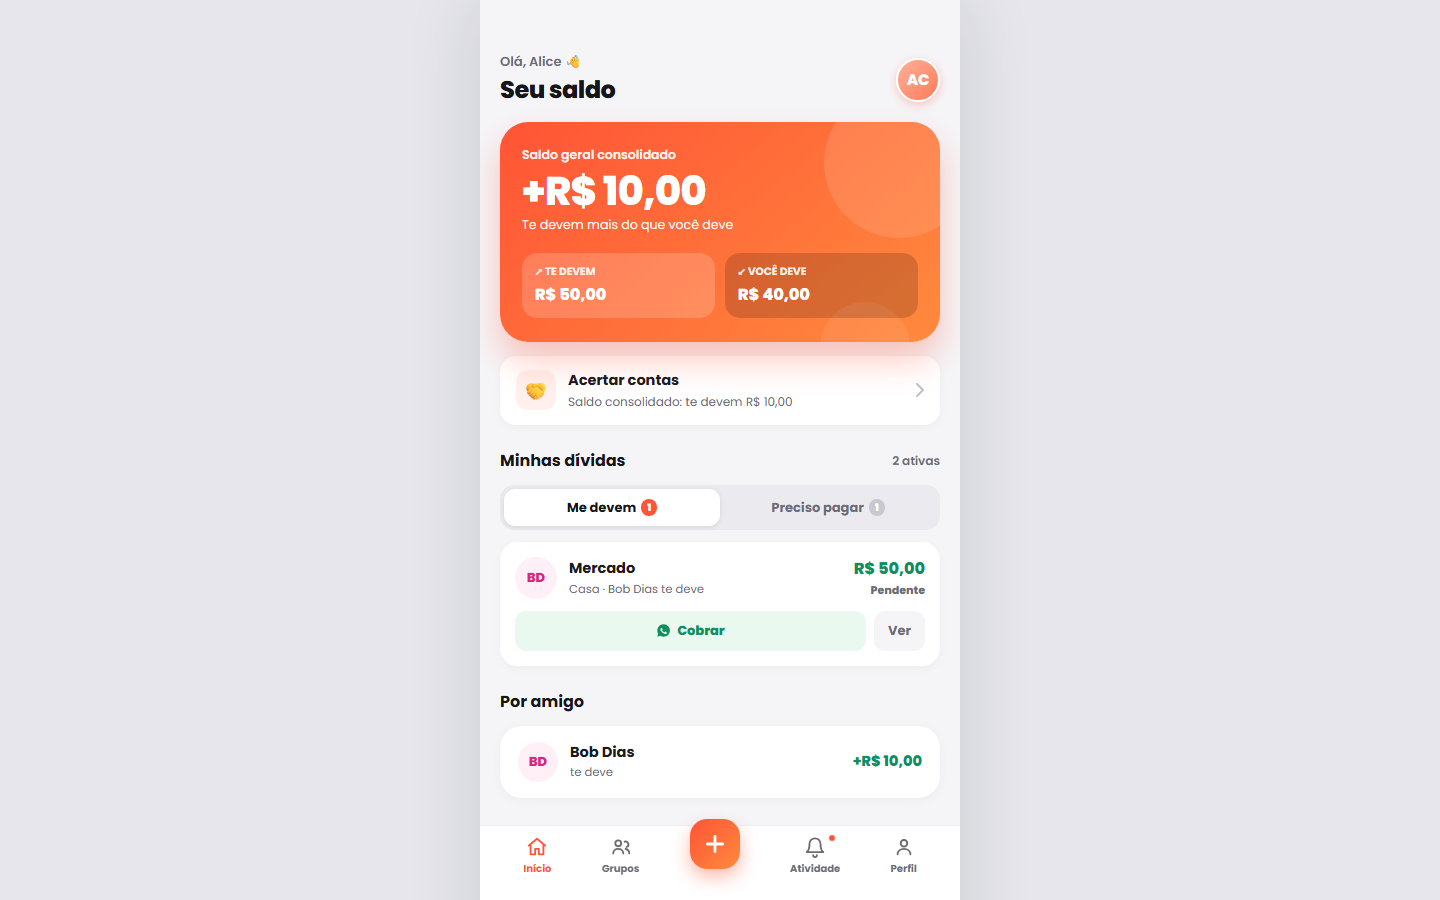
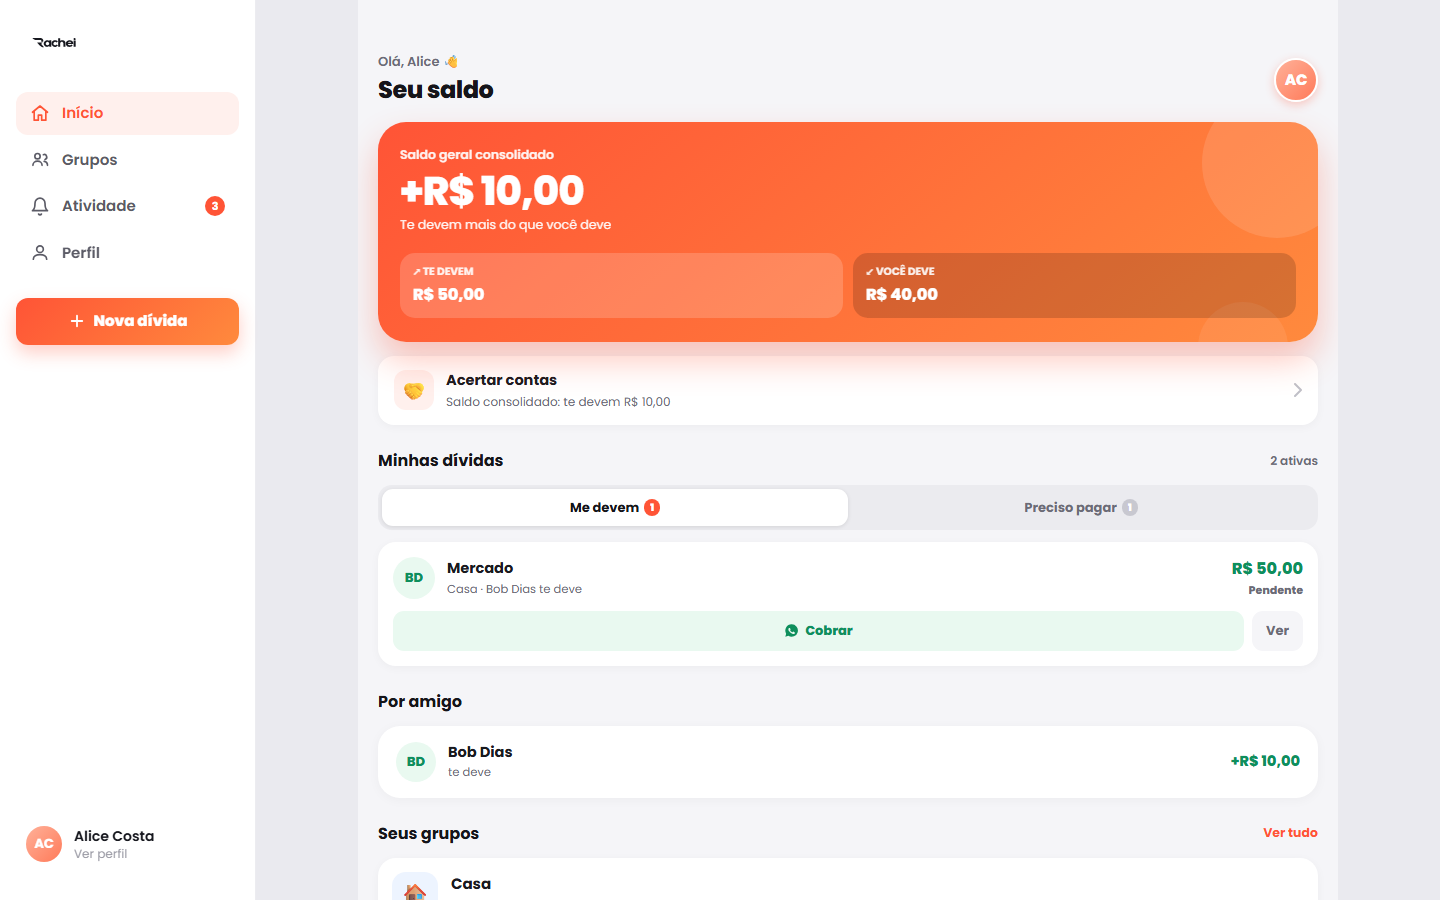
Desktop de verdade: sidebar + conteudo fluido (nao mais coluna estreita)
Telas principais ganham layout web (sidebar de navegacao a esquerda + conteudo usando a largura); bottom nav so no mobile. Fluxos (detalhe/form) num foco central legivel. Erro de login com role=alert (a11y + E2E robusto). 9/9 E2E + 77 unit verdes.

diff --git a/src/components/Sidebar.tsx b/src/components/Sidebar.tsx
@@ -1,0 +1,87 @@
+import { useEffect, useState, type ReactNode } from 'react'
+import { useNavigate, useLocation } from 'react-router-dom'
+import { useAuthStore } from '../stores/auth.store'
+import { activityService } from '../services/activity.service'
+import { getInitials } from '../lib/utils'
+import Logo from './Logo'
+
+const CORAL = '#FF5436'
+
+function NavItem({ active, onClick, icon, label, badge }: {
+  active: boolean; onClick: () => void; icon: ReactNode; label: string; badge?: number
+}) {
+  return (
+    <button
+      onClick={onClick}
+      className="flex items-center gap-3 rounded-xl px-3.5 py-2.5 text-left text-[15px] font-semibold transition-colors"
+      style={{
+        background: active ? '#FFF0ED' : 'transparent',
+        color: active ? CORAL : '#5B5B66',
+      }}
+    >
+      <span className="flex h-5 w-5 flex-shrink-0 items-center justify-center">{icon}</span>
+      <span className="flex-1">{label}</span>
+      {badge ? (
+        <span className="flex h-5 min-w-[20px] items-center justify-center rounded-full bg-[#FF5436] px-1.5 text-[11px] font-bold text-white">
+          {badge > 9 ? '9+' : badge}
+        </span>
+      ) : null}
+    </button>
+  )
+}
+
+export default function Sidebar() {
+  const navigate = useNavigate()
+  const { pathname } = useLocation()
+  const currentUser = useAuthStore((s) => s.currentUser)
+  const [unread, setUnread] = useState(0)
+
+  useEffect(() => {
+    if (!currentUser) return
+    let cancelled = false
+    activityService.getUnreadCount().then((n) => { if (!cancelled) setUnread(n) }).catch(() => {})
+    return () => { cancelled = true }
+  }, [pathname, currentUser])
+
+  const isGroups = pathname === '/grupos' || pathname.startsWith('/grupos/')
+
+  return (
+    <aside className="hidden w-64 shrink-0 flex-col border-r border-[#ECECF0] bg-white px-4 py-7 lg:sticky lg:top-0 lg:flex lg:h-dvh">
+      <div className="px-2.5">
+        <Logo tone="ink" className="h-7 w-auto" />
+      </div>
+
+      <nav className="mt-9 flex flex-col gap-1">
+        <NavItem active={pathname === '/dashboard'} onClick={() => navigate('/dashboard')} label="Início"
+          icon={<svg width="21" height="21" viewBox="0 0 24 24" fill="none"><path d="M3 10.5L12 3l9 7.5M5 9.5V20h5v-6h4v6h5V9.5" stroke="currentColor" strokeWidth="2" strokeLinecap="round" strokeLinejoin="round" /></svg>} />
+        <NavItem active={isGroups} onClick={() => navigate('/grupos')} label="Grupos"
+          icon={<svg width="21" height="21" viewBox="0 0 24 24" fill="none"><circle cx="9" cy="8" r="3.2" stroke="currentColor" strokeWidth="2" /><path d="M3.5 19c0-3 2.5-5 5.5-5s5.5 2 5.5 5" stroke="currentColor" strokeWidth="2" strokeLinecap="round" /><path d="M16 6.2A3 3 0 0118 12M17 14.2c2.4.4 4 2.3 4 4.8" stroke="currentColor" strokeWidth="2" strokeLinecap="round" /></svg>} />
+        <NavItem active={pathname === '/atividade'} onClick={() => navigate('/atividade')} label="Atividade" badge={unread}
+          icon={<svg width="21" height="21" viewBox="0 0 24 24" fill="none"><path d="M6 8a6 6 0 0112 0c0 7 3 9 3 9H3s3-2 3-9" stroke="currentColor" strokeWidth="2" strokeLinecap="round" strokeLinejoin="round" /><path d="M10.3 21a1.94 1.94 0 003.4 0" stroke="currentColor" strokeWidth="2" strokeLinecap="round" /></svg>} />
+        <NavItem active={pathname === '/perfil'} onClick={() => navigate('/perfil')} label="Perfil"
+          icon={<svg width="21" height="21" viewBox="0 0 24 24" fill="none"><circle cx="12" cy="8" r="4" stroke="currentColor" strokeWidth="2" /><path d="M4 20c0-3.5 3.6-5.5 8-5.5s8 2 8 5.5" stroke="currentColor" strokeWidth="2" strokeLinecap="round" /></svg>} />
+      </nav>
+
+      <button
+        onClick={() => navigate('/grupos')}
+        className="mt-6 flex items-center justify-center gap-2 rounded-xl px-4 py-3 text-[15px] font-extrabold text-white"
+        style={{ background: 'linear-gradient(135deg,#FF5436,#FF8A3D)', boxShadow: '0 8px 18px rgba(255,84,54,.28)' }}
+      >
+        <svg width="18" height="18" viewBox="0 0 24 24" fill="none"><path d="M12 5v14M5 12h14" stroke="#fff" strokeWidth="2.4" strokeLinecap="round" /></svg>
+        Nova dívida
+      </button>
+
+      <div className="mt-auto">
+        <button onClick={() => navigate('/perfil')} className="flex w-full items-center gap-3 rounded-xl px-2.5 py-2.5 text-left hover:bg-[#F5F5F8]">
+          <span className="flex h-9 w-9 flex-shrink-0 items-center justify-center rounded-full text-[13px] font-bold text-white" style={{ background: 'linear-gradient(135deg,#FFB199,#FF7A59)' }}>
+            {currentUser ? getInitials(currentUser.name) : ''}
+          </span>
+          <span className="min-w-0">
+            <span className="block truncate text-sm font-semibold text-[#17181F]">{currentUser?.name}</span>
+            <span className="block text-xs text-[#9A9AA4]">Ver perfil</span>
+          </span>
+        </button>
+      </div>
+    </aside>
+  )
+}

diff --git a/src/router/index.tsx b/src/router/index.tsx
@@ -34,13 +34,29 @@ export const router = createBrowserRouter([
       { path: '/cadastro', element: <AuthPage mode="register" /> },
       { path: '/esqueci-senha', element: <ForgotPasswordPage /> },
       { path: '/verificar-2fa', element: <TwoFactorChallengePage /> },
-      // Cobrança pública — também centralizada no desktop (sem exigir login)
+      // Cobrança pública — foco central (sem exigir login)
       {
         element: <AppFrame />,
         children: [{ path: '/pagar/:token', element: <PaymentLinkPage /> }],
       },
 
-      // App autenticado — dentro da moldura central (responsivo no desktop)
+      // Telas principais — shell com sidebar (desktop) / bottom nav (mobile)
+      {
+        element: (
+          <PrivateRoute>
+            <AppShell />
+          </PrivateRoute>
+        ),
+        children: [
+          { path: '/dashboard', element: <DashboardPage /> },
+          { path: '/grupos', element: <GroupsPage /> },
+          { path: '/grupos/:id', element: <GroupPage /> },
+          { path: '/atividade', element: <ActivityPage /> },
+          { path: '/perfil', element: <ProfilePage /> },
+        ],
+      },
+
+      // Fluxos focados (detalhe/formulários) — foco central
       {
         element: (
           <PrivateRoute>
@@ -48,18 +64,6 @@ export const router = createBrowserRouter([
           </PrivateRoute>
         ),
         children: [
-          // Telas com bottom nav
-          {
-            element: <AppShell />,
-            children: [
-              { path: '/dashboard', element: <DashboardPage /> },
-              { path: '/grupos', element: <GroupsPage /> },
-              { path: '/grupos/:id', element: <GroupPage /> },
-              { path: '/atividade', element: <ActivityPage /> },
-              { path: '/perfil', element: <ProfilePage /> },
-            ],
-          },
-          // Telas sem bottom nav (fluxos)
           { path: '/verificar-telefone', element: <VerifyPhonePage /> },
           { path: '/grupos/:id/nova-divida', element: <NewDebtPage /> },
           { path: '/dividas/:id/editar', element: <EditDebtPage /> },

diff --git a/src/router/AppFrame.tsx b/src/router/AppFrame.tsx
@@ -1,14 +1,14 @@
 import { Outlet } from 'react-router-dom'
 
 /**
- * Moldura do app autenticado. No mobile ocupa a tela inteira (mobile-first,
- * intacto). No desktop, centraliza o app numa coluna de largura fixa sobre um
- * fundo neutro — em vez de esticar a interface por telas largas.
+ * Foco das telas de fluxo (detalhe de dívida, formulários, acerto, cobrança
+ * pública). Estes são fluxos de uma tarefa só — devem ficar num container
+ * central legível, não esticados. Mobile: tela cheia.
  */
 export default function AppFrame() {
   return (
-    <div className="min-h-dvh w-full bg-[#E6E6EC] lg:flex lg:justify-center">
-      <div className="relative min-h-dvh w-full bg-[#F5F5F8] lg:max-w-[480px] lg:shadow-[0_0_70px_rgba(30,20,40,0.13)]">
+    <div className="min-h-dvh w-full bg-[#EAEAEF] lg:flex lg:justify-center">
+      <div className="relative min-h-dvh w-full bg-[#F5F5F8] lg:max-w-[560px] lg:shadow-[0_0_70px_rgba(30,20,40,0.10)]">
         <Outlet />
       </div>
     </div>

diff --git a/src/router/AppShell.tsx b/src/router/AppShell.tsx
@@ -1,11 +1,24 @@
 import { Outlet } from 'react-router-dom'
+import Sidebar from '../components/Sidebar'
 import BottomNav from '../components/BottomNav'
 
+/**
+ * Shell das telas principais.
+ * - Desktop: sidebar fixa à esquerda + conteúdo fluido que usa a largura.
+ * - Mobile: conteúdo em tela cheia + bottom nav (inalterado).
+ */
 export default function AppShell() {
   return (
-    <>
-      <Outlet />
-      <BottomNav />
-    </>
+    <div className="min-h-dvh bg-[#EAEAEF] lg:flex">
+      <Sidebar />
+      <main className="min-h-dvh w-full flex-1">
+        <div className="mx-auto w-full lg:max-w-[980px]">
+          <Outlet />
+        </div>
+      </main>
+      <div className="lg:hidden">
+        <BottomNav />
+      </div>
+    </div>
   )
 }

diff --git a/src/styles/globals.css b/src/styles/globals.css
@@ -48,7 +48,7 @@
    moldura central do app (mesma largura da coluna do AppFrame). */
 .rc-bottombar { position: fixed; bottom: 0; left: 0; right: 0; }
 @media (min-width: 1024px) {
-  .rc-bottombar { left: 50%; right: auto; width: 100%; max-width: 480px; transform: translateX(-50%); }
+  .rc-bottombar { left: 50%; right: auto; width: 100%; max-width: 560px; transform: translateX(-50%); }
   /* Folha dos modais alinhada à moldura central (a folha é o filho do overlay). */
   .rc-overlay > * { max-width: 480px !important; margin-inline: auto; }
 }

diff --git a/src/features/auth/components/LoginForm.tsx b/src/features/auth/components/LoginForm.tsx
@@ -118,7 +118,7 @@ export default function LoginForm({ onSwitchToRegister }: LoginFormProps) {
       </div>
 
       {error && (
-        <p style={{ background: '#FDECEC', color: '#E5484D', fontSize: 13.5, fontWeight: 600, padding: '11px 14px', borderRadius: 12, margin: 0 }}>
+        <p role="alert" style={{ background: '#FDECEC', color: '#E5484D', fontSize: 13.5, fontWeight: 600, padding: '11px 14px', borderRadius: 12, margin: 0 }}>
           {error}
         </p>
       )}

diff --git a/e2e/auth-negativo.spec.ts b/e2e/auth-negativo.spec.ts
@@ -11,7 +11,7 @@ test('login com senha errada é rejeitado', async ({ page, request }) => {
   await page.getByRole('button', { name: 'Entrar' }).click()
 
   // Mostra o erro e permanece na tela de login — nunca chega ao dashboard.
-  await expect(page.locator('p.text-red-500')).toBeVisible()
+  await expect(page.getByRole('alert')).toBeVisible()
   await expect(page).toHaveURL(/\/login/)
   await expect(page.getByText('Seu saldo')).toHaveCount(0)
 })
